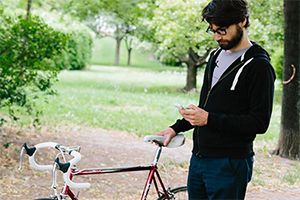
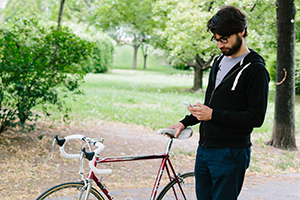
Updated images for Bike'N'Play
Replace image with high resolution and 64:27 aspect ratio.

diff --git a/_projects/bike-n-play.md b/_projects/bike-n-play.md
@@ -11,8 +11,10 @@ gallery:
   - file: "bike-n-play-wearable.jpg"
     preview: "bike-n-play-wearable-150.jpg"
 imagecredits:
-  - number: "1, 2"
-    author: "AIT Austrian Institute of Technology"
+  - number: "1"
+    author: "AIT Austrian Institute of Technology / Michael Bösendorfer"
+  - number: "2"
+    author: "FluidTime"
 ---
 
 The project Bike'N'Play develops gaming approaches for the integration of cycling data into popular computer games of different game genres. By utilizing existing games, the target group of non-cyclists can be reached and motivated to start cycling.
